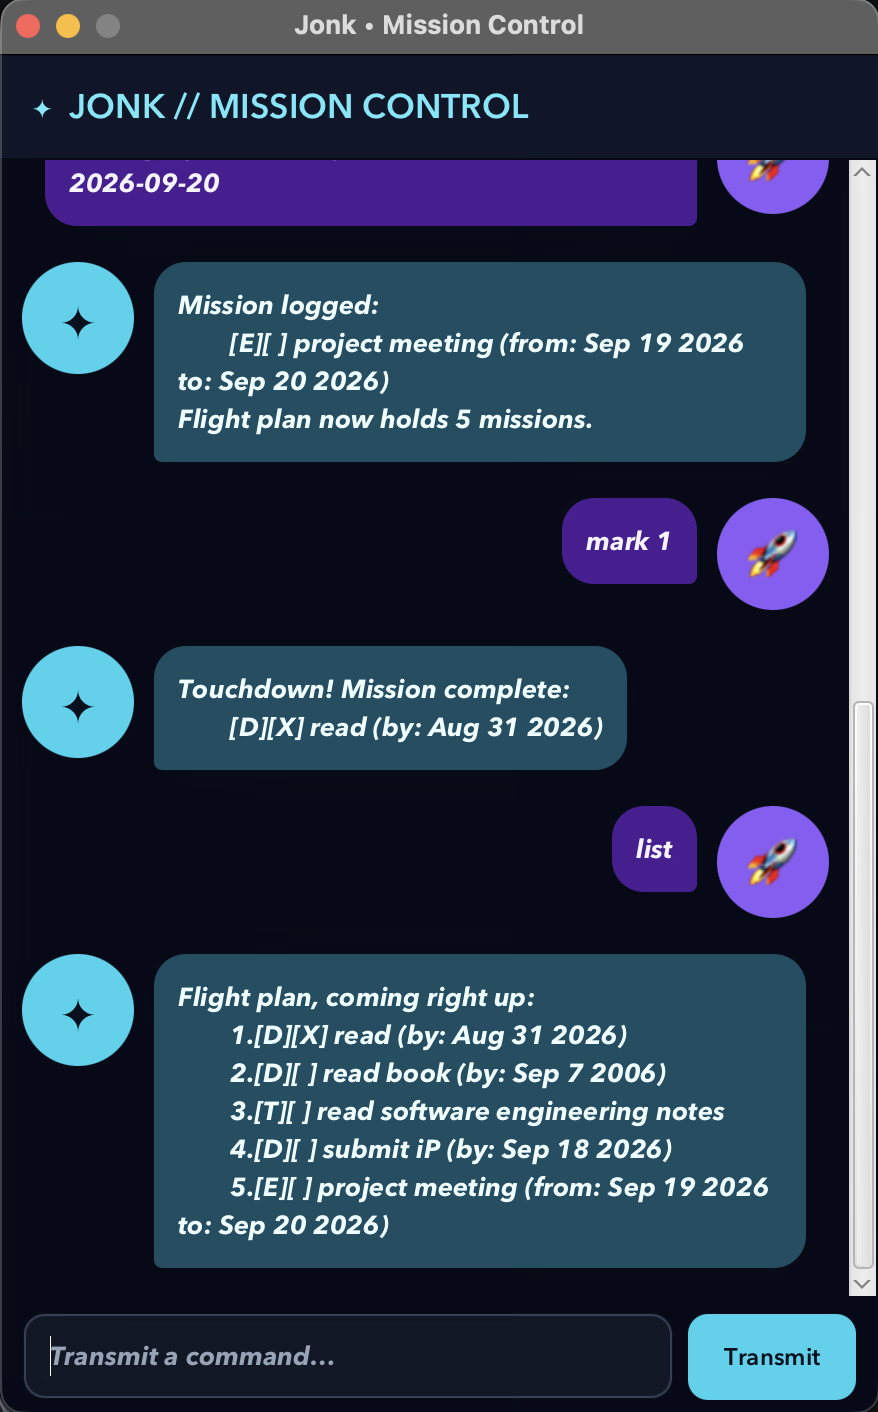
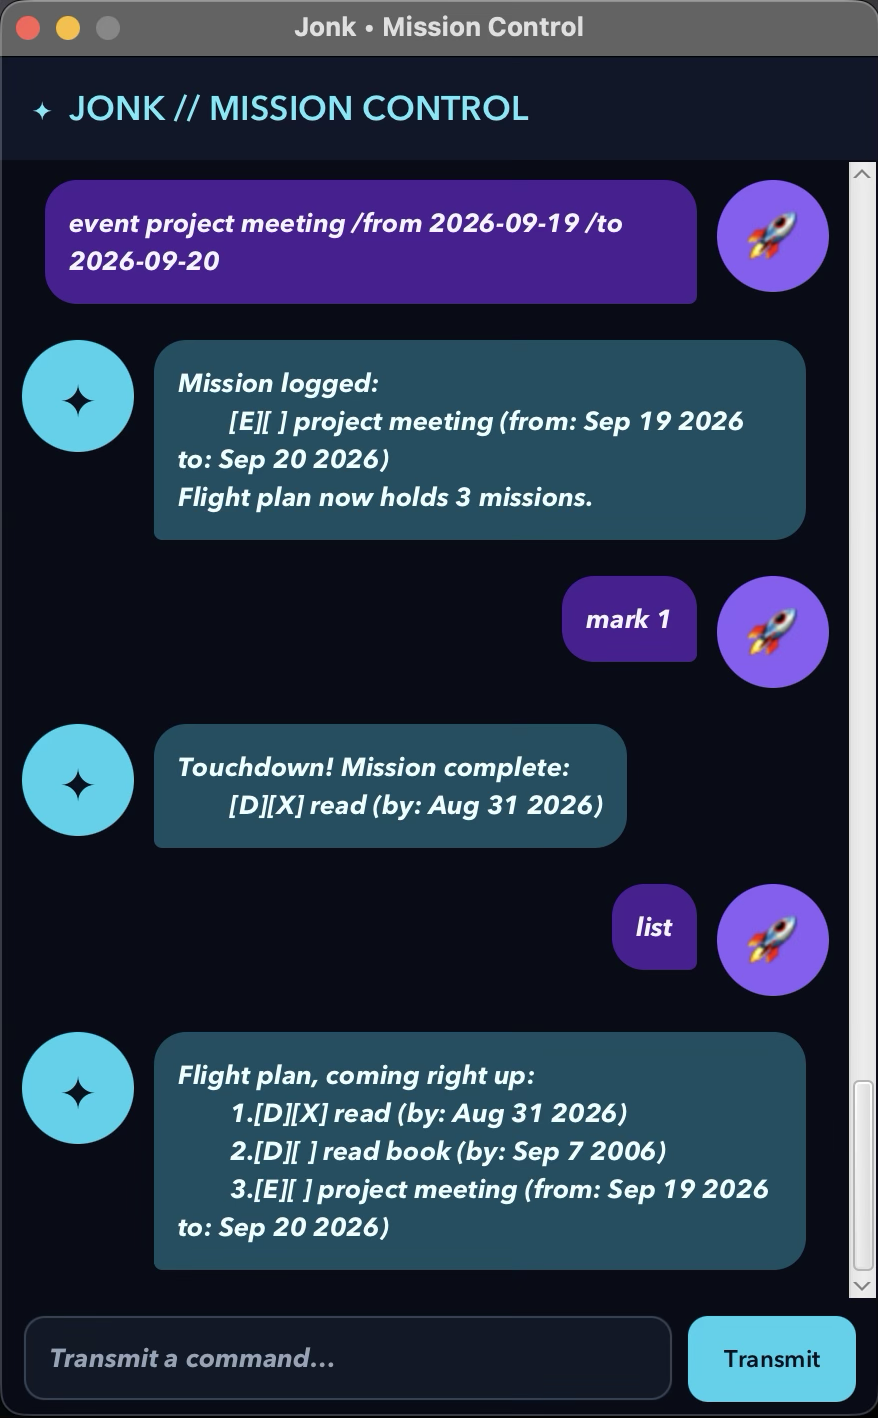
Finalize Jonk release documentation and GUI screenshot
Synchronize the repository README with the published user guide so users receive the same setup instructions, command examples, and troubleshooting guidance from either entry point. Adjust the screenshot path for the repository root and replace Ui.png with the updated GUI capture for the final release.

diff --git a/README.md b/README.md
@@ -1,31 +1,158 @@
-# Jonk Mission Control
+# Jonk User Guide
 
-Jonk is a mission-control-themed task chatbot built from a greenfield Java project template. It is named after the
-Java mascot _Duke_. Given below are instructions on how to use it.
+Jonk is your mission-control copilot for everyday tasks. Track todos, deadlines, and events by typing short
+commands. Jonk calls your tasks **missions** and your task list the **flight plan**.
 
-## Testing
+<img src="docs/Ui.png" alt="Jonk Mission Control showing tasks, dates, and a completed mission" width="440">
 
-With Java 25 selected, run `./gradlew clean check` for the full JUnit suite and coverage checks.
-See [the testing guide](test/README.md) for reports, coverage scope, and console/GUI test plans.
+[Quick start](#quick-start) · [Commands](#commands) · [Saving your tasks](#saving-your-tasks) ·
+[Troubleshooting](#troubleshooting)
 
-## Setting up in Intellij
+## Quick start
 
-Prerequisites: JDK 25, update Intellij to the most recent version.
+1. Install **Java 25**. Run `java -version` in a terminal to check your version.
+2. Download `jonk.jar` from the [latest release](https://github.com/jonkohzy/ip/releases/latest).
+3. Put it in a folder where you want to keep your tasks. Open a terminal in that folder and run:
 
-1. Open Intellij (if you are not in the welcome screen, click `File` > `Close Project` to close the existing project first)
-1. Open the project into Intellij as follows:
-   1. Click `Open`.
-   1. Select the project directory, and click `OK`.
-   1. If there are any further prompts, accept the defaults.
-1. Configure the project to use **JDK 25** (not other versions) as explained in [here](https://www.jetbrains.com/help/idea/sdk.html#set-up-jdk).<br>
-   In the same dialog, set the **Project language level** field to the `SDK default` option.
-1. After that, locate the `src/main/java/jonk/Jonk.java` file, right-click it, and choose `Run Jonk.main()` (if the code editor is showing compile errors, try restarting the IDE). If the setup is correct, you should see something like the below as the output:
-   ```
-          __  ____  _   ____ __
-         / / / __ \ | / / //_/
-    __  / / / / / /  |/ / ,<
-   / /_/ / / /_/ / /|  / /| |
-   \____/  \____/_/ |_/_/ |_|
+   ```sh
+   java -jar jonk.jar
    ```
 
-**Warning:** Keep the `src\main\java` folder as the root folder for Java files (i.e., don't rename those folders or move Java files to another folder outside of this folder path), as this is the default location some tools (e.g., Gradle) expect to find Java files.
+4. In the Jonk window, type a command in the transmission field. Press **Enter** or click **Transmit**.
+5. Try `todo read book`, then `list`. Use the number shown by `list` with `mark NUMBER` when you finish.
+
+Scroll through the conversation to revisit earlier replies. Type `help` whenever you need a command reminder.
+
+## Commands
+
+- Use lowercase command words. Replace uppercase placeholders such as `DESCRIPTION` with your own text.
+- Descriptions and search keywords can contain spaces and must not be empty. Do not add quotation marks.
+- Dates use `yyyy-MM-dd`, such as `2026-09-18`. Times are not supported.
+- Keep `/by`, `/from`, and `/to` in the order shown, with a space before and after each marker.
+- Use numbers from the latest **`list`** response for `mark`, `unmark`, and `delete`.
+- Enter `help`, `list`, and `bye` without arguments. Type `list` and `bye` without surrounding spaces.
+
+### Show help: `help`
+
+Displays the command reference and examples inside the conversation. Your tasks are unchanged.
+
+**Command:** `help`
+
+### Add a todo: `todo`
+
+Creates a task without a date.
+
+**Format:** `todo DESCRIPTION`
+
+**Example:** `todo read book`
+
+Jonk replies with `Mission logged:` and the task, shown as `[T][ ] read book`.
+
+### Add a deadline: `deadline`
+
+Creates a task with a due date.
+
+**Format:** `deadline DESCRIPTION /by DATE`
+
+**Example:** `deadline submit iP /by 2026-09-18`
+
+The task appears as `[D][ ] submit iP (by: Sep 18 2026)` when using an English system locale.
+
+### Add an event: `event`
+
+Creates a task with start and end dates.
+
+**Format:** `event DESCRIPTION /from DATE /to DATE`
+
+**Example:** `event project meeting /from 2026-09-19 /to 2026-09-20`
+
+Check the dates before submitting: the current version accepts an end date earlier than the start date.
+
+### View all tasks: `list`
+
+Shows all tasks, including completed ones, in the order they were added.
+
+**Command:** `list`
+
+For example, after adding the three tasks above to an empty flight plan:
+
+```text
+Flight plan, coming right up:
+    1.[T][ ] read book
+    2.[D][ ] submit iP (by: Sep 18 2026)
+    3.[E][ ] project meeting (from: Sep 19 2026 to: Sep 20 2026)
+```
+
+`[T]`, `[D]`, and `[E]` identify todos, deadlines, and events. `[ ]` means incomplete; `[X]` means complete.
+An empty list shows just the heading.
+
+### Mark a task complete: `mark`
+
+**Format:** `mark NUMBER`
+
+**Example:** `mark 1`
+
+Marks task 1 from `list` as complete. Jonk replies with `Touchdown! Mission complete:` and shows `[X]`.
+The task stays on your flight plan.
+
+### Mark a task incomplete: `unmark`
+
+**Format:** `unmark NUMBER`
+
+**Example:** `unmark 1`
+
+Changes task 1 back to incomplete. Jonk replies with `Course corrected. Mission active again:` and shows `[ ]`.
+
+### Find tasks: `find`
+
+**Format:** `find KEYWORD`
+
+**Example:** `find book`
+
+Searches descriptions for the exact text you enter. Matching is **case-sensitive**: `book` matches `read book`
+and `buy notebook`, but not `read Book`. Multiple words are searched as one phrase; dates are not searched.
+No matches produces just the `Scanner results—matching missions:` heading.
+
+**Search results are numbered separately.** Run `list` again before marking or deleting a task, because a number
+shown by `find` may refer to a different task in the full list.
+
+### Delete a task: `delete`
+
+**Format:** `delete NUMBER`
+
+**Example:** `delete 2`
+
+Removes task 2 from the full list immediately. There is no undo command. Remaining tasks are renumbered, so run
+`list` again before your next numbered command. To correct a task's description or dates, delete it and add it again.
+
+### Exit: `bye`
+
+**Command:** `bye`
+
+Displays Jonk's farewell and closes the window. Your successfully saved tasks will be available next time.
+
+## Saving your tasks
+
+Jonk saves automatically after adding, deleting, marking, or unmarking a task. There is no save command.
+It uses `data/jonk.txt` inside the folder **from which you launch the app**. Launch from the same folder each time
+to load the same flight plan.
+
+On first use, a missing data file is normal: Jonk starts empty and creates the folder and file when you add a task.
+To back up or transfer tasks, close Jonk and copy the `data` folder together with your JAR file.
+
+## Troubleshooting
+
+| What you see | What to do |
+| --- | --- |
+| `Signal unclear.` | Check the command spelling and lowercase letters, or type `help`. Remove extra text after `list` or `bye`. |
+| A missing-description or missing-date message | Supply a description and all required date markers and values. |
+| `Navigation dates must use yyyy-MM-dd format.` | Use a real calendar date, such as `2026-09-18`; `2026-02-30` is invalid. |
+| A task-number error | Run `list`, then use one whole number from that list, starting at 1. |
+| `Could not save tasks` | Check that your launch folder is writable and `data/jonk.txt` is a file, not a folder. The attempted change was rolled back; retry after fixing the problem. |
+| `Could not load tasks` | Close Jonk and back up `data/jonk.txt` before repairing it or restoring a known-good copy. Jonk starts empty after this error; adding a task can overwrite the original file. |
+| Your tasks seem to have disappeared | Check that you launched Jonk from the same folder as before and that its `data/jonk.txt` is still there. |
+
+**Current description limitation:** avoid a space followed by `/` in descriptions. For example,
+`todo revise / review notes` currently saves only `revise`; use `todo revise and review notes` instead.
+
+The guide's organization follows the [SE-EDU sample User Guide](https://se-education.org/addressbook-level3/UserGuide.html).
